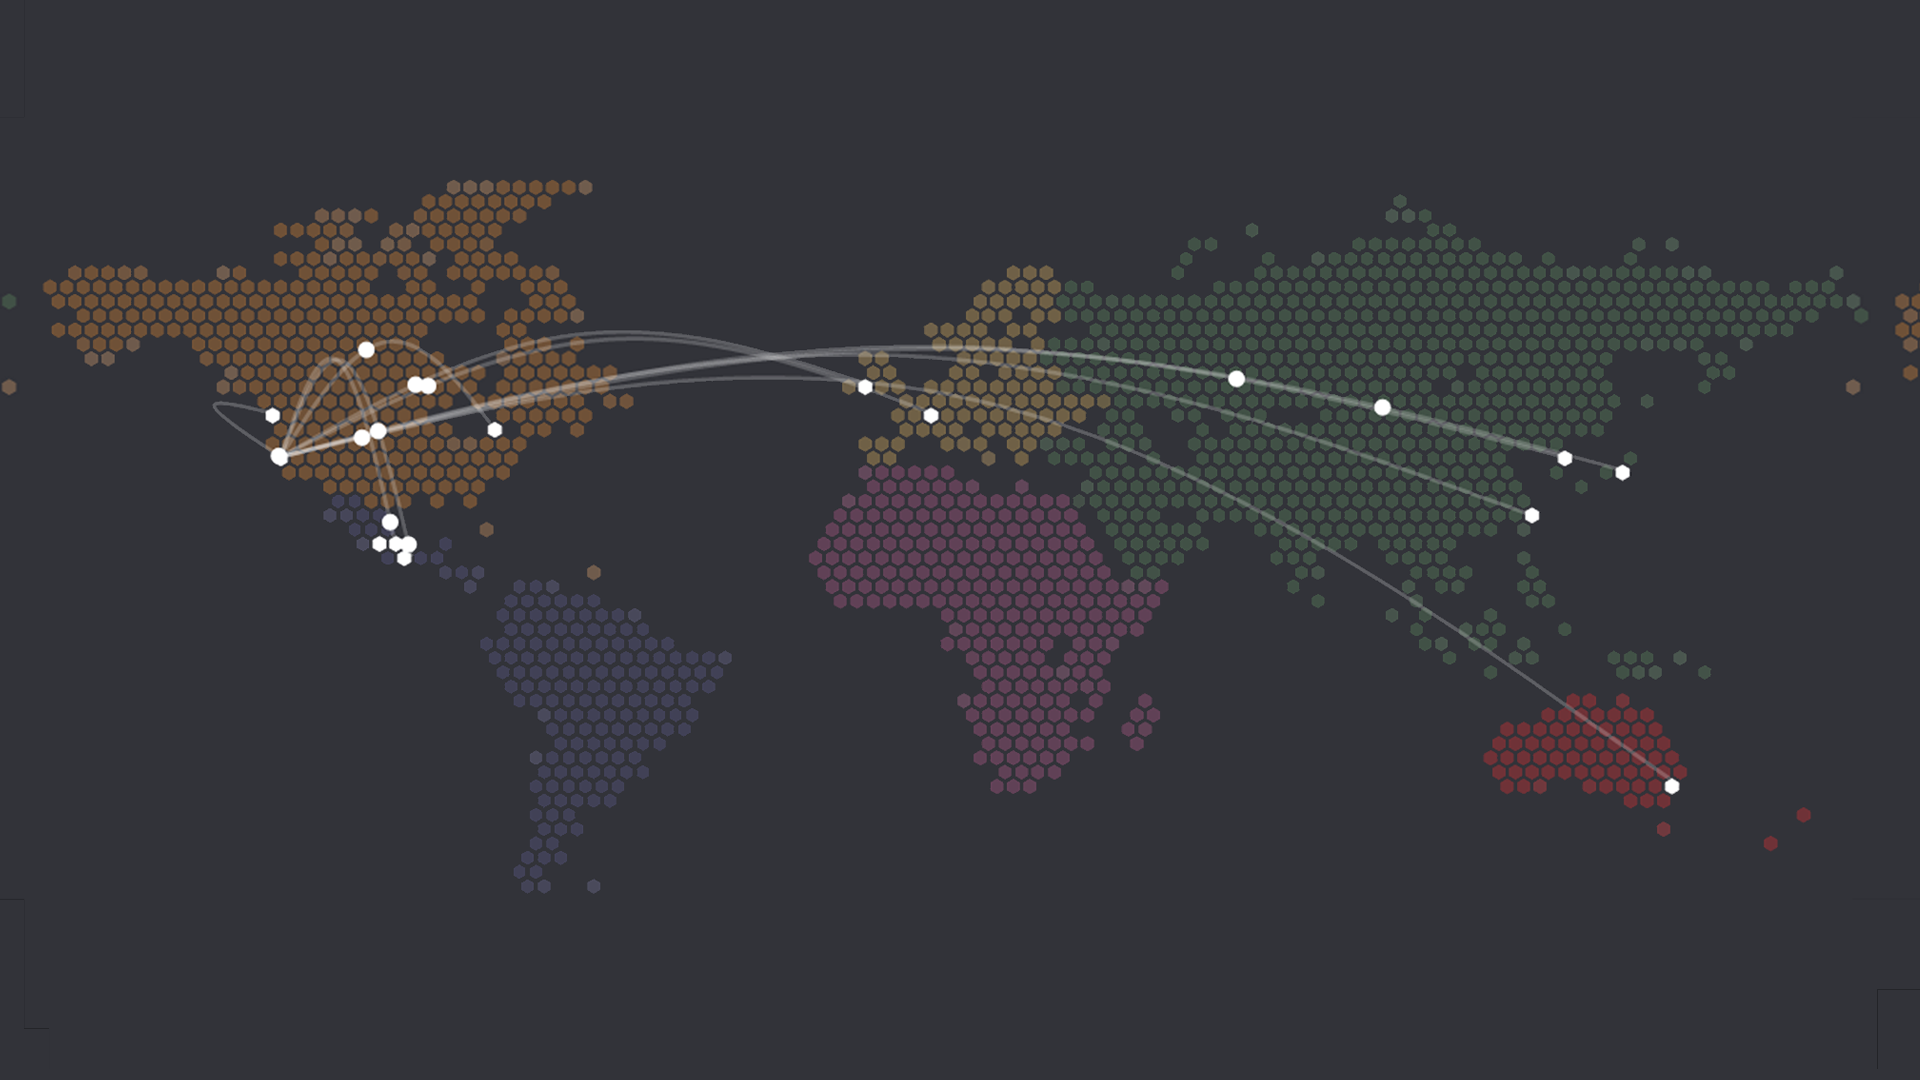
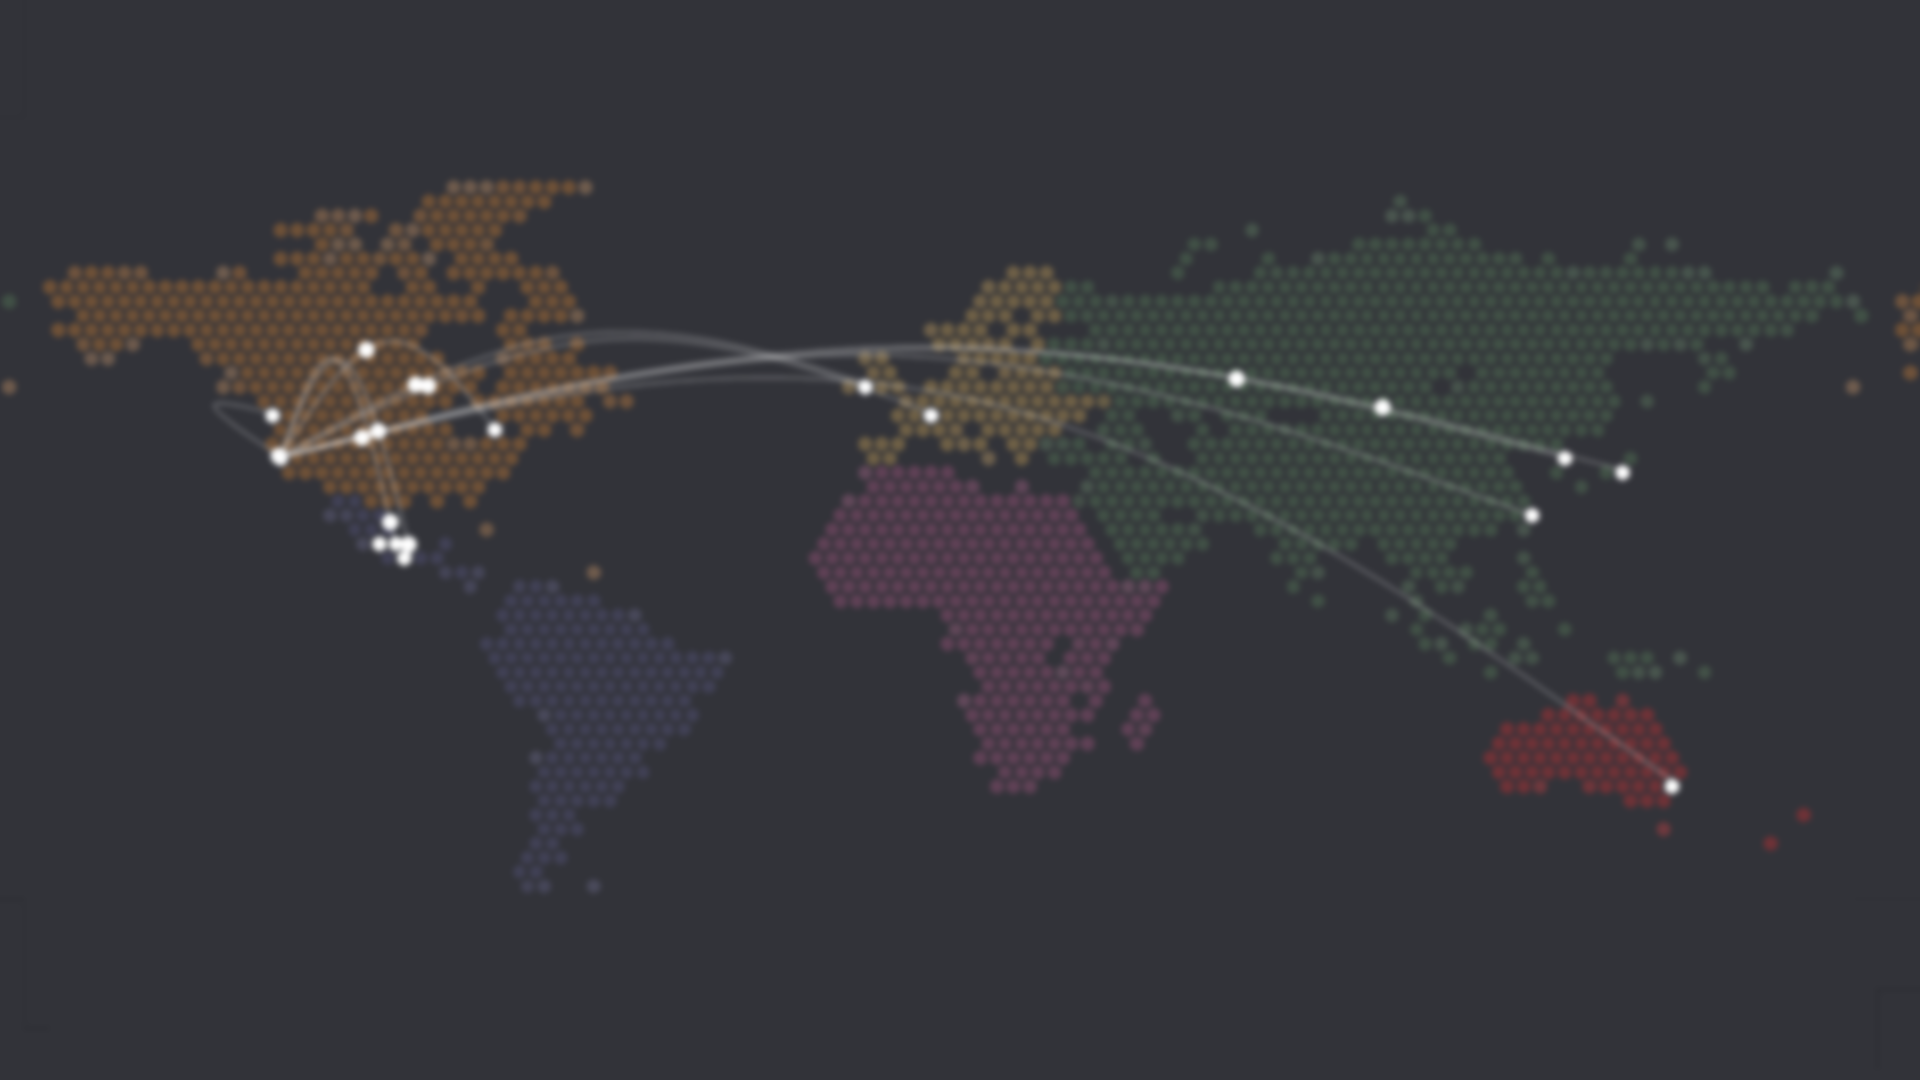
renamed hexmap dir to lax-flights; added minor homepage styling

diff --git a/index.html b/index.html
@@ -1,17 +1,17 @@
 <!DOCTYPE html>
 <html>
 <head>
-    <meta http-equiv="Content-Type" content="text/html;charset=utf-8">
+    <meta charset="utf-8">
+    <meta http-equiv="X-UA-Compatible" content="IE=edge">
     <title>Visualizing LA</title>
 
-    <link rel='shortcut icon' type='image/x-icon' href='resources/img/visla.ico' />
+    <link rel='shortcut icon' type='image/x-icon' href='resources/img/visla.png' />
     <link rel="stylesheet" type="text/css" href="resources/css/homepage.css"/>
 </head>
 <body>
 
     <!--
     TODO:
-    ADD IN HEADER/NAV + FUNCTIONALITY ACROSS ALL PAGES
     FIX HOMEPAGE NAV CLICK [VERY BUGGY] 
     -->
 
@@ -45,7 +45,7 @@
                     <a href="lax-traffic">
                         <li>TRAFFIC</li>
                     </a>
-                    <a href="hexmap">
+                    <a href="lax-flights">
                         <li>FLIGHTS</li>
                     </a>
             </ul>
@@ -154,7 +154,7 @@
         </div>
 
         <div class="section-2-content">
-            <div class="section-2-background section-background blur" data-1700="opacity: 0" data-2100="opacity:1; ">
+            <div class="section-2-background section-background" data-1700="opacity: 0" data-2100="opacity:1; ">
             </div>
             <div class="info-box" data-1700="margin-top: 70vh" data-2200="opacity: 1" data-2300="opacity: 0">
                 <h2 class="box-title">PARKING TICKETS</h2>
@@ -168,7 +168,7 @@
         <div id="section-3" class="section" data-2501="" data-3500=""></div>
 
         <div class="section-3-content">
-            <div class="section-3-background section-background blur" data-2500="opacity: 0" data-2900="opacity:1; ">
+            <div class="section-3-background section-background" data-2500="opacity: 0" data-2900="opacity:1; ">
             </div>
             <div class="info-box" data-2800="margin-top: 70vh" data-3200="opacity: 1" data-3300="opacity:0; ">
                 <h2 class="box-title">LAX TRAFFIC</h2>
@@ -181,11 +181,11 @@
         <div id="section-4" class="section" data-3501="" data-4500=""></div>
 
         <div class="section-4-content">
-            <div class="section-4-background section-background blur" data-3500="opacity: 0" data-3900="opacity:1; ">
+            <div class="section-4-background section-background" data-3500="opacity: 0" data-3900="opacity:1; ">
             </div>
             <div class="info-box" data-3900="margin-top: 70vh" data-4200="opacity: 1" data-4300="opacity:0; ">
                 <h2 class="box-title">FLIGHTS FROM LAX</h2>
-                <a href="hexmap">EXPLORE</a>
+                <a href="lax-flights">EXPLORE</a>
                 <p class="box-blurb">Lorem ipsum dolor sit amet, consectetur adipiscing elit. Nulla vestibulum turpis felis, eget hendrerit sem ullamcorper sed. Donec porttitor dolor quam, sed luctus lorem maximus at.</p>
             </div>
             
@@ -194,9 +194,11 @@
         <div id="section-5" class="section" data-4501="" data-5500=""></div>
 
         <div class="section-5-content">
-            <div class="info-box" data-4900="margin-top: 70vh" data-5200="opacity: 1" data-5300="opacity:0; ">
+            <div class="section-5-background section-background" data-4500="opacity: 0" data-4900="opacity:1; ">
+            </div>
+            <div class="info-box" data-4800="opacity:0" data-4900="margin-top: 70vh" data-5200="opacity: 1">
                 <h2 class="box-title">SUMMARY</h2>
-                <p class="box-blurb">Lorem ipsum dolor sit amet, consectetur adipiscing elit. Nulla vestibulum turpis felis, eget hendrerit sem ullamcorper sed. Donec porttitor dolor quam, sed luctus lorem maximus at.</p>
+                <p class="box-blurb"><hr data-5000="width:0vw" data-5100="width: 80vw">Lorem ipsum dolor sit amet, consectetur adipiscing elit. Nulla vestibulum turpis felis, eget hendrerit sem ullamcorper sed. Donec porttitor dolor quam, sed luctus lorem maximus at.</p>
             </div>
             
         </div>

diff --git a/resources/css/homepage.css b/resources/css/homepage.css
@@ -34,14 +34,6 @@ a{
     left:50%;
 }
 
-.blur{
-    /*-webkit-filter: blur(3px);
-    -moz-filter: blur(3px);
-    -o-filter: blur(3px);
-    -ms-filter: blur(3px);
-    filter: blur(3px);*/
-}
-
 .pre-over{
     width: 100%;
     height: 100%;
@@ -372,10 +364,6 @@ a{
     height: 2000px;
 }
 
-#path1{
-    left:50vw;
-}
-
 #path2{
     margin-left:-200px
 }
@@ -392,7 +380,6 @@ a{
     width:40vw;
     pointer-events:none;
 
-    margin-top: 100vh;
     margin-left: 10vw;
     padding: 30px;
     transform: translateY(-50%);
@@ -419,11 +406,9 @@ a{
 
 .info-box a{
     pointer-events:auto;
-    padding: 5px 10px;
     font-size: 12px;
     display: inline-block;
-    padding-top: 6px;
-    padding-bottom: 6px;
+    padding: 6px 10px;
 
     -webkit-transition: background-color 0.5s ease;
     -moz-transition: background-color 0.5s ease;
@@ -469,6 +454,20 @@ a{
     color: #333;
 }
 
+.section-5-content .box-title{
+    text-align: center;
+    letter-spacing: 10px;
+    font-size: 50px
+}
+
+.section-5-content .info-box{
+    width: 80vw;
+}
+
+.section-5-content .box-blurb{
+    margin-bottom: -10px;
+}
+
 /*=====================SECTIONS===================*/
 
 .section{
@@ -488,7 +487,8 @@ a{
 #section-2,
 .section-2-background,
 .section-3-background,
-.section-4-background{
+.section-4-background,
+.section-5-background{
     z-index:2;
 
     width:100vw;
@@ -529,12 +529,12 @@ a{
 }
 
 .section-5-content{
-    height: 800px;
+    height: 820px;
 }
 
 .section-5-background{
     z-index: 5;
-    background-color: grey;
+    background-color: #061F38;
 }
 
 

diff --git a/resources/js/squares-over.js b/resources/js/squares-over.js
@@ -57,7 +57,7 @@ function flyIn(d){
         .delay(200)
         .duration(200)
             .attr('transform', function(d){
-                return 'translate(' - d.xOffset + ', ' - d.yOffset + ')';
+                return 'translate(0,0)';
             })
             .attr('xTrans', 0)
             .attr('yTrans', 0)
@@ -81,7 +81,7 @@ function initAll(){
     var col = row.selectAll('rect')
             .data(function(d) {return d;})
             .enter().append('rect')
-                .attr('id', function(d, i) {return 'rect' + i;})
+                //.attr('id', function(d, i) {return 'rect' + i;})
                 .attr('x', function(d) {return d.x + d.xOffset;})
                 .attr('y', function(d) {return d.y + d.yOffset;})
                 .attr('width', function(d) {return d.width;})

diff --git a/lax-flights/index.html b/lax-flights/index.html
@@ -10,6 +10,7 @@
 	<script type="text/javascript" src="../resources/data/lax_passenger.json"></script>
 	<link href="https://fonts.googleapis.com/css?family=Muli" rel="stylesheet">
 	<link rel="stylesheet" href="../resources/css/hexmap.css">
+	<link rel='shortcut icon' type='image/x-icon' href='../resources/img/visla.png' />
 </head>
 <body>
 	<h1 id="title">Most Frequented Airports From LAX</h1>
@@ -39,7 +40,7 @@
                     <a href="../lax-traffic">
                         <li>TRAFFIC</li>
                     </a>
-                    <a href="../hexmap">
+                    <a href="../lax-flights">
                         <li>FLIGHTS</li>
                     </a>
             </ul>

diff --git a/parking-tickets/index.html b/parking-tickets/index.html
@@ -19,6 +19,7 @@
     <meta name="viewport" content="width=device-width, initial-scale=1">
 		<link href='https://api.mapbox.com/mapbox.js/v2.4.0/mapbox.css' rel='stylesheet' />
 		<link rel="stylesheet" href="../resources/css/tickets.css">
+		<link rel='shortcut icon' type='image/x-icon' href='../resources/img/visla.png' />
 	</head>
 	<body>
 		<div class="fixed-over">
@@ -45,7 +46,7 @@
                     <a href="../lax-traffic">
                         <li>TRAFFIC</li>
                     </a>
-                    <a href="../hexmap">
+                    <a href="../lax-flights">
                         <li>FLIGHTS</li>
                     </a>
             </ul>

diff --git a/lax-traffic/index.html b/lax-traffic/index.html
@@ -19,6 +19,7 @@
     
     <link rel="stylesheet" href="../resources/css/traffic.css" type="text/css"> </head>
     <link rel="stylesheet" href="../resources/css/animate.min.css" type="text/css">
+    <link rel='shortcut icon' type='image/x-icon' href='../resources/img/visla.png' />
 
 </head>
 <body>
@@ -42,7 +43,7 @@
                 <a href="../lax-traffic">
                     <li>TRAFFIC</li>
                 </a>
-                <a href="../hexmap">
+                <a href="../lax-flights">
                     <li>FLIGHTS</li>
                 </a>
             </ul>
